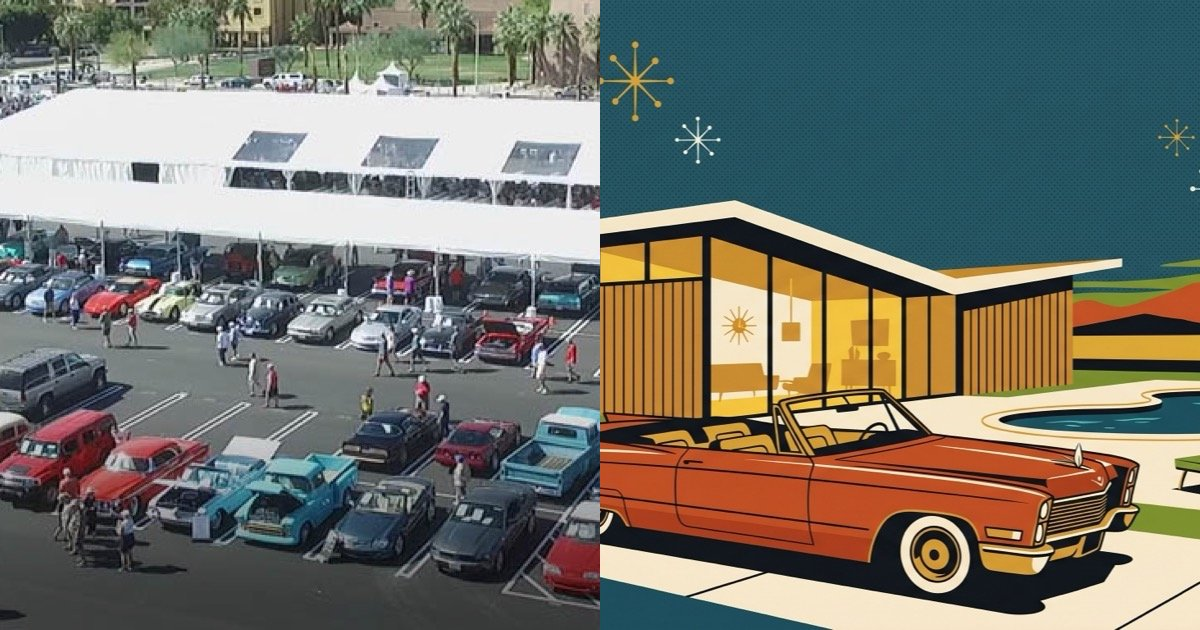
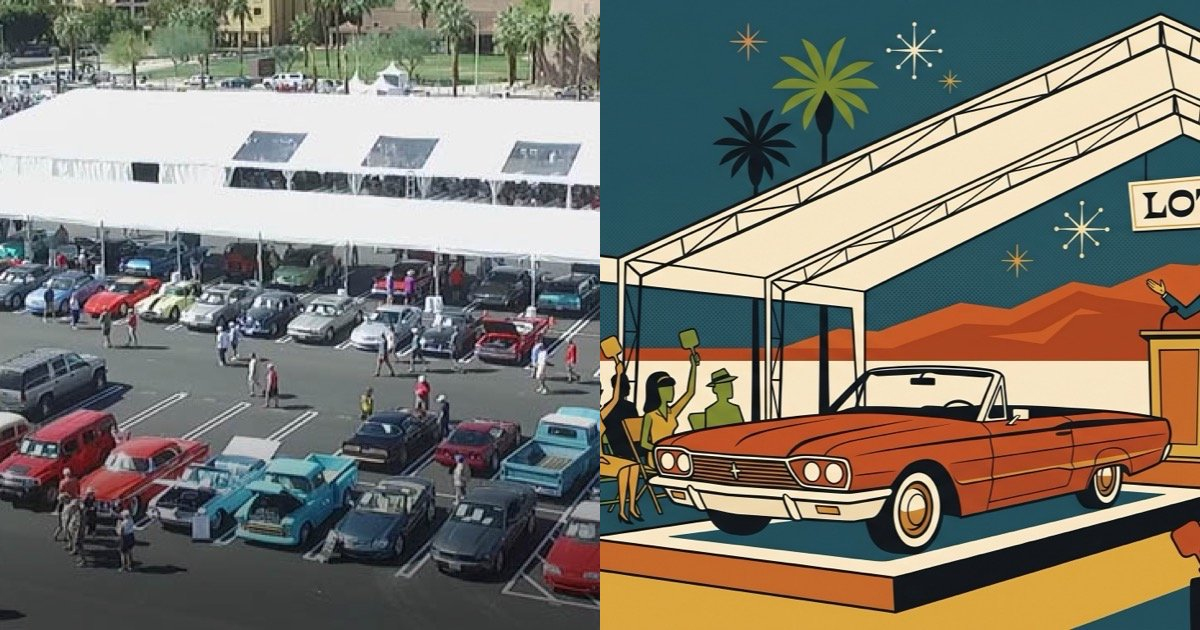
Atomic: auction-first hero + Preview Night section per feedback
- Hero copy now brand-first: McCormick's Classic Car Auction
- New NB Pro auction-floor hero (auctioneer, paddles, car on the block)
- New Preview Night section (bidders walking the lots)
- Original MCM-house illustration repurposed as Our Story image
- OG + selector card + selector composite updated to auction imagery

diff --git a/direction-atomic.html b/direction-atomic.html
@@ -205,23 +205,23 @@
     </div>
 
     <!-- Big title -->
-    <h1 class="font-display uppercase leading-[0.86] tracking-[0.005em] text-ink text-[18vw] md:text-[14vw] lg:text-[12vw] xl:text-[170px] title-shadow">
-      The Atomic<br>
-      <span class="text-orange title-shadow-teal">Floor</span>
+    <h1 class="font-display uppercase leading-[0.86] tracking-[0.005em] text-ink text-[15vw] md:text-[11vw] lg:text-[9.5vw] xl:text-[140px] title-shadow">
+      McCormick's<br>
+      <span class="text-orange title-shadow-teal">Classic Car Auction</span>
     </h1>
 
-    <!-- Hero illustration panel -->
+    <!-- Hero illustration panel — auction in action -->
     <div class="mt-8 md:mt-10 border-ink atomic-shadow bg-ivory overflow-hidden">
-      <img src="images/atomic/hero-illustration.jpg" alt="A burnt-orange classic convertible parked at a Palm Springs mid-century modern house at twilight, with a kidney pool, palms, and atomic starbursts in the sky"
+      <img src="images/atomic/auction-hero.jpg" alt="A 1962 classic car auction in action under a white event tent at golden hour — burnt-orange convertible on the block, auctioneer at podium with raised gavel, bidders in folding chairs with paddles raised, palms and atomic starbursts in the deep teal sky"
            class="w-full block" loading="eager">
     </div>
 
     <!-- Below-image copy + ctas -->
     <div class="grid md:grid-cols-12 gap-6 md:gap-10 mt-8 md:mt-12 items-end">
       <div class="md:col-span-8">
-        <p class="font-display uppercase text-[14px] md:text-[16px] tracking-[0.1em] text-orange mb-3">A 1962 Palm Springs Cocktail Party. The Cars Are On The Block.</p>
+        <p class="font-display uppercase text-[14px] md:text-[16px] tracking-[0.1em] text-orange mb-3">Two weekends a year. Five hundred lots. Palm Springs since 1985.</p>
         <p class="text-[16px] md:text-[19px] text-ink leading-snug max-w-2xl">
-          Two weekends a year, the country's most documented mid-century classics cross the block in Palm Springs. Family-run since 1985. Cars first. Sip slow. Stay late.
+          The country's most documented mid-century classics cross the block in the California desert. Family-run for forty-one years. Cars first. Sip slow. Stay late.
         </p>
       </div>
       <div class="md:col-span-4 flex flex-wrap gap-3 md:justify-end">
@@ -378,12 +378,37 @@
   </div>
 </section>
 
+<!-- ============== PREVIEW NIGHT (full-bleed auction-floor illustration) ============== -->
+<section id="preview" class="relative bg-ink border-b-[3px] border-ink overflow-hidden">
+  <img src="images/atomic/auction-preview.jpg" alt="Preview night at the McCormick's auction — three classic 1960s cars (deep-teal sports coupe, ivory Thunderbird, mustard finned sedan) parked under a white tent with bidders walking among them inspecting the lots, palms and atomic starbursts in the deep teal sky"
+       class="w-full block" loading="lazy">
+  <!-- Overlay caption -->
+  <div class="absolute inset-x-0 top-0 p-4 md:p-8 lg:p-12">
+    <div class="max-w-7xl mx-auto flex items-start justify-between gap-4 flex-wrap">
+      <div class="bg-ivory border-ink atomic-shadow-sm px-4 py-2 md:px-6 md:py-3">
+        <p class="font-display uppercase tracking-[0.08em] text-[12px] md:text-[16px] text-ink leading-none">Preview Night · Friday Open</p>
+      </div>
+      <div class="bg-orange border-ink atomic-shadow-sm px-4 py-2 md:px-6 md:py-3 text-ivory">
+        <p class="font-display uppercase tracking-[0.08em] text-[12px] md:text-[16px] leading-none">Walk the Lots Before They Cross the Block</p>
+      </div>
+    </div>
+  </div>
+  <!-- Bottom strap -->
+  <div class="absolute inset-x-0 bottom-0 bg-ink/80 backdrop-blur-sm py-3 md:py-4">
+    <div class="max-w-7xl mx-auto px-4 md:px-8 flex items-center justify-between gap-4 flex-wrap font-display uppercase tracking-[0.12em] text-[11px] md:text-[14px] text-ivory">
+      <span>Doors Open Friday Morning</span>
+      <span class="text-mustard">Catalogs at the Door</span>
+      <span>Inspect by Appointment Anytime</span>
+    </div>
+  </div>
+</section>
+
 <!-- ============== OUR STORY ============== -->
 <section id="story" class="relative bg-ivory border-b-[3px] border-ink">
   <div class="max-w-7xl mx-auto px-4 md:px-8 py-14 md:py-20 grid md:grid-cols-12 gap-8 md:gap-14 items-center">
     <div class="md:col-span-6 order-2 md:order-1">
       <div class="bg-ivory border-ink atomic-shadow-teal overflow-hidden">
-        <img src="images/atomic/vignette-sixties.jpg" alt="Deep-teal 1960s European coupe at a Palm Springs MCM home" class="w-full block aspect-[4/5] object-cover" loading="lazy">
+        <img src="images/atomic/hero-illustration.jpg" alt="A burnt-orange classic convertible parked at a Palm Springs mid-century modern home at twilight with a kidney pool and atomic starbursts" class="w-full block aspect-[16/9] object-cover" loading="lazy">
       </div>
     </div>
     <div class="md:col-span-6 order-1 md:order-2">

diff --git a/index.html b/index.html
@@ -117,7 +117,7 @@
     <!-- ATOMIC CARD -->
     <a href="direction-atomic.html" class="card group block bg-[#F4E8D0] border-[3px] border-[#0F1419] overflow-hidden" style="box-shadow: 8px 8px 0 0 #D2552A;">
       <div class="relative aspect-[4/3] overflow-hidden border-b-[3px] border-[#0F1419]">
-        <img src="images/atomic/og-atomic.jpg" alt="Atomic direction preview — Shag-style illustration of a burnt-orange convertible at a Palm Springs MCM home"
+        <img src="images/atomic/auction-hero.jpg" alt="Atomic direction preview — Shag-style illustration of a 1962 classic car auction in action with bidders and an auctioneer"
              class="card-img w-full h-full object-cover">
         <div class="absolute top-4 left-4 font-stamp text-[12px] uppercase tracking-[0.16em] text-[#F4E8D0] bg-[#0F1419] px-3 py-1.5">02 · Atomic</div>
       </div>

diff --git a/IMAGE_LOG.md b/IMAGE_LOG.md
@@ -94,7 +94,54 @@ The Editorial direction generated zero images — used only real McCormick's CDN
 
 ---
 
-## Total Cost: $0.591
+---
+
+## Feedback iteration #1 (2026-05-15) — "the auction is the draw"
+
+Daddy flagged that the Atomic direction had zero auction imagery and the hero copy needed to be brand-first. Two new auction-action illustrations generated; `hero-illustration.jpg` demoted from hero to the Story-section image (not deleted — repurposed).
+
+---
+
+### #7 — atomic/auction-hero.jpg (NB Pro, passed first try) — NEW HERO
+![auction-hero.jpg](images/atomic/auction-hero.jpg)
+- **Timestamp**: 2026-05-15 13:22
+- **Tier**: 2 | **API**: Gemini Nano Banana Pro @ 2K | **Cost**: $0.134
+- **Exec Time**: 26s
+- **Slot**: Atomic hero (replaces the MCM-house illustration) + selector card + og-atomic
+- **Prompt**: 1962 classic car auction in full action under a white open-sided event tent at golden hour. Burnt-orange convertible on a raised auction-block platform mid-crossing. Rows of geometric bidder silhouettes in folding chairs with numbered paddles raised. Auctioneer at wooden podium with chrome mic + raised gavel. Ivory "LOT" sign (only the word LOT, no numbers). White tent structural beams. Open sides reveal fan palms, deep teal twilight sky with atomic starbursts, burnt-orange San Jacinto silhouette. Strict 6-color palette. 16:9 with upper-left negative space for type.
+- **Claude Review**: Use Case 10/10 | Prompt Accuracy 10/10
+- **Grok QA Review**: skipped (visually obvious pass — "LOT" text rendered cleanly, no garble)
+- **Attempts**: 1/2
+- **Status**: ✓ Used (new hero)
+- **Notes**: Best image of the entire project. The active-auction moment Daddy asked for — auctioneer, gavel, paddles, car on the block, "LOT" sign legible. NB Pro's text rendering earned its cost here.
+
+---
+
+### #8 — atomic/auction-preview.jpg (NB2, passed first try) — NEW SECTION
+![auction-preview.jpg](images/atomic/auction-preview.jpg)
+- **Timestamp**: 2026-05-15 13:31
+- **Tier**: 2 | **API**: Gemini Nano Banana 2 @ 2K | **Cost**: $0.101
+- **Exec Time**: 29s (after 2 transient curl connection failures — no charge on those, generation only succeeded once)
+- **Slot**: New full-bleed "Preview Night" section between The Floor and Our Story
+- **Prompt**: Preview night at a 1962 classic car auction at twilight, no auctioneer. Three classic 1960s cars (teal sports coupe, ivory Thunderbird, mustard finned sedan) under a white event tent, spotlit from below. Bidder silhouettes walking among them inspecting; one couple with a blank catalog. Ivory "LOT" tags hanging from tent beams (only the word LOT). Open tent sides: deep teal twilight sky with atomic starbursts, fan palms, burnt-orange mountains. Strict 6-color palette. 16:9.
+- **Claude Review**: Use Case 10/10 | Prompt Accuracy 10/10
+- **Grok QA Review**: skipped (visually obvious pass)
+- **Attempts**: 1/2
+- **Status**: ✓ Used
+- **Notes**: Complements the active-auction hero with the pre-auction beat. "LOT" tags rendered cleanly. Two failed curl attempts (HTTP/2 + HTTP/1.1 connection drops) returned no response and generated nothing server-side — not counted/charged. Third attempt with `-sS` succeeded.
+
+---
+
+### Demoted (not deleted) — atomic/hero-illustration.jpg
+The original MCM-house-with-convertible hero (image #1) is no longer the hero. Repurposed as the Our Story section image (it reads as "your classic in its natural Palm Springs habitat"). Kept in place — no regeneration cost.
+
+---
+
+## Total Cost: $0.826 (build $0.591 + feedback iteration $0.235)
+
+**Note on the cap:** the $0.75 per-build cap was exceeded by $0.076 on this feedback iteration. Reasoning: "the auction is the draw" was a critical-gap fix, not a polish tweak — shipping the right deliverable justified a 10% overage on a single iteration. Monthly cap ($10) is nowhere near breached. Flagged transparently in the delivery. Original build cost breakdown below.
+
+## Original build cost: $0.591
 
 | Tier | API / Model | Count | Cost each | Subtotal |
 |---|---|---|---|---|